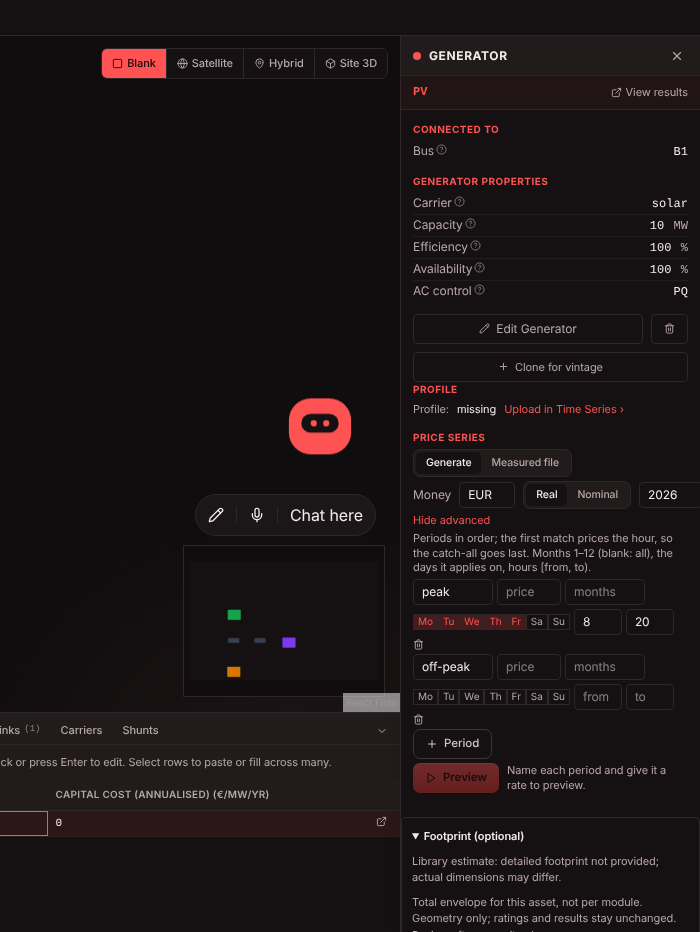
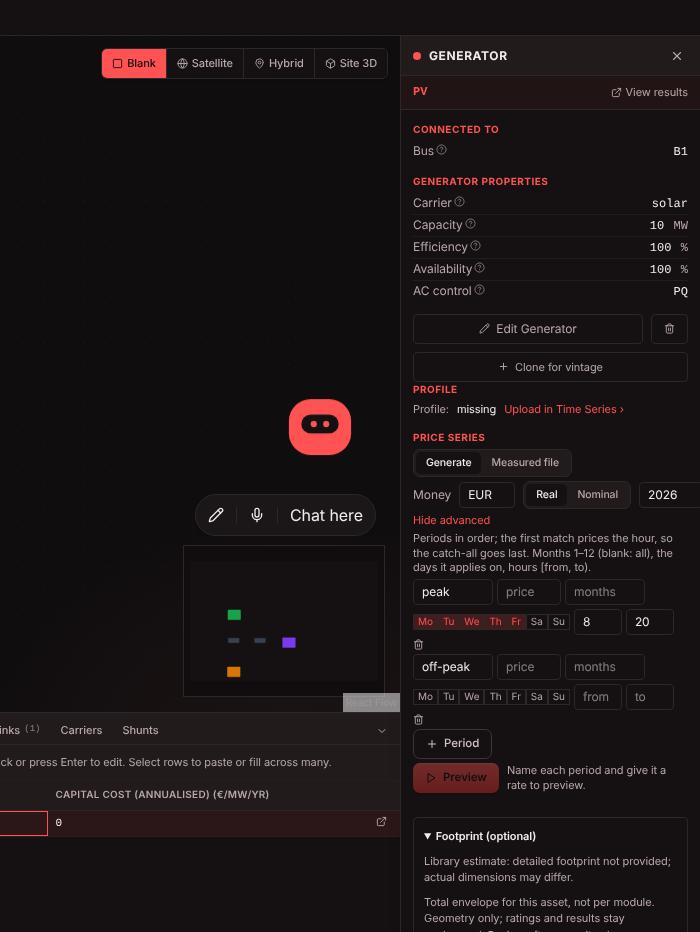
pr751: b re-shot, e shots

Changed region(s): [[0.57, 0.8712, 0.96, 1.0], [0.99, 0.8712, 1.0, 1.0], [0.42, 0.4356, 0.48, 0.4667]]

diff --git a/pr751/README.md b/pr751/README.md
@@ -1,2 +1,3 @@
 PR 751 UX polish 2. a: link-button disabled (before opacity 1 / after 0.5), b: Footprint box (288px→518px, pad 8→10px), c: drawer over canvas Properties, clean (aside at x1300-1600 fully under the 1080-1600 drawer), d: "Open here ›" / "Open … in Expert ›".
 f: before = the line as the dict-repr frame rendered it; after = the line from the fixed frame (message only), injected into the chat store.
+b re-shot with mx-3 inset (494px = siblings 518 minus 2x12). Site view footprint is unchanged (inPanel false keeps max-w-72; the test project has no 3D site to shoot). e: refusal text injected as in f.
